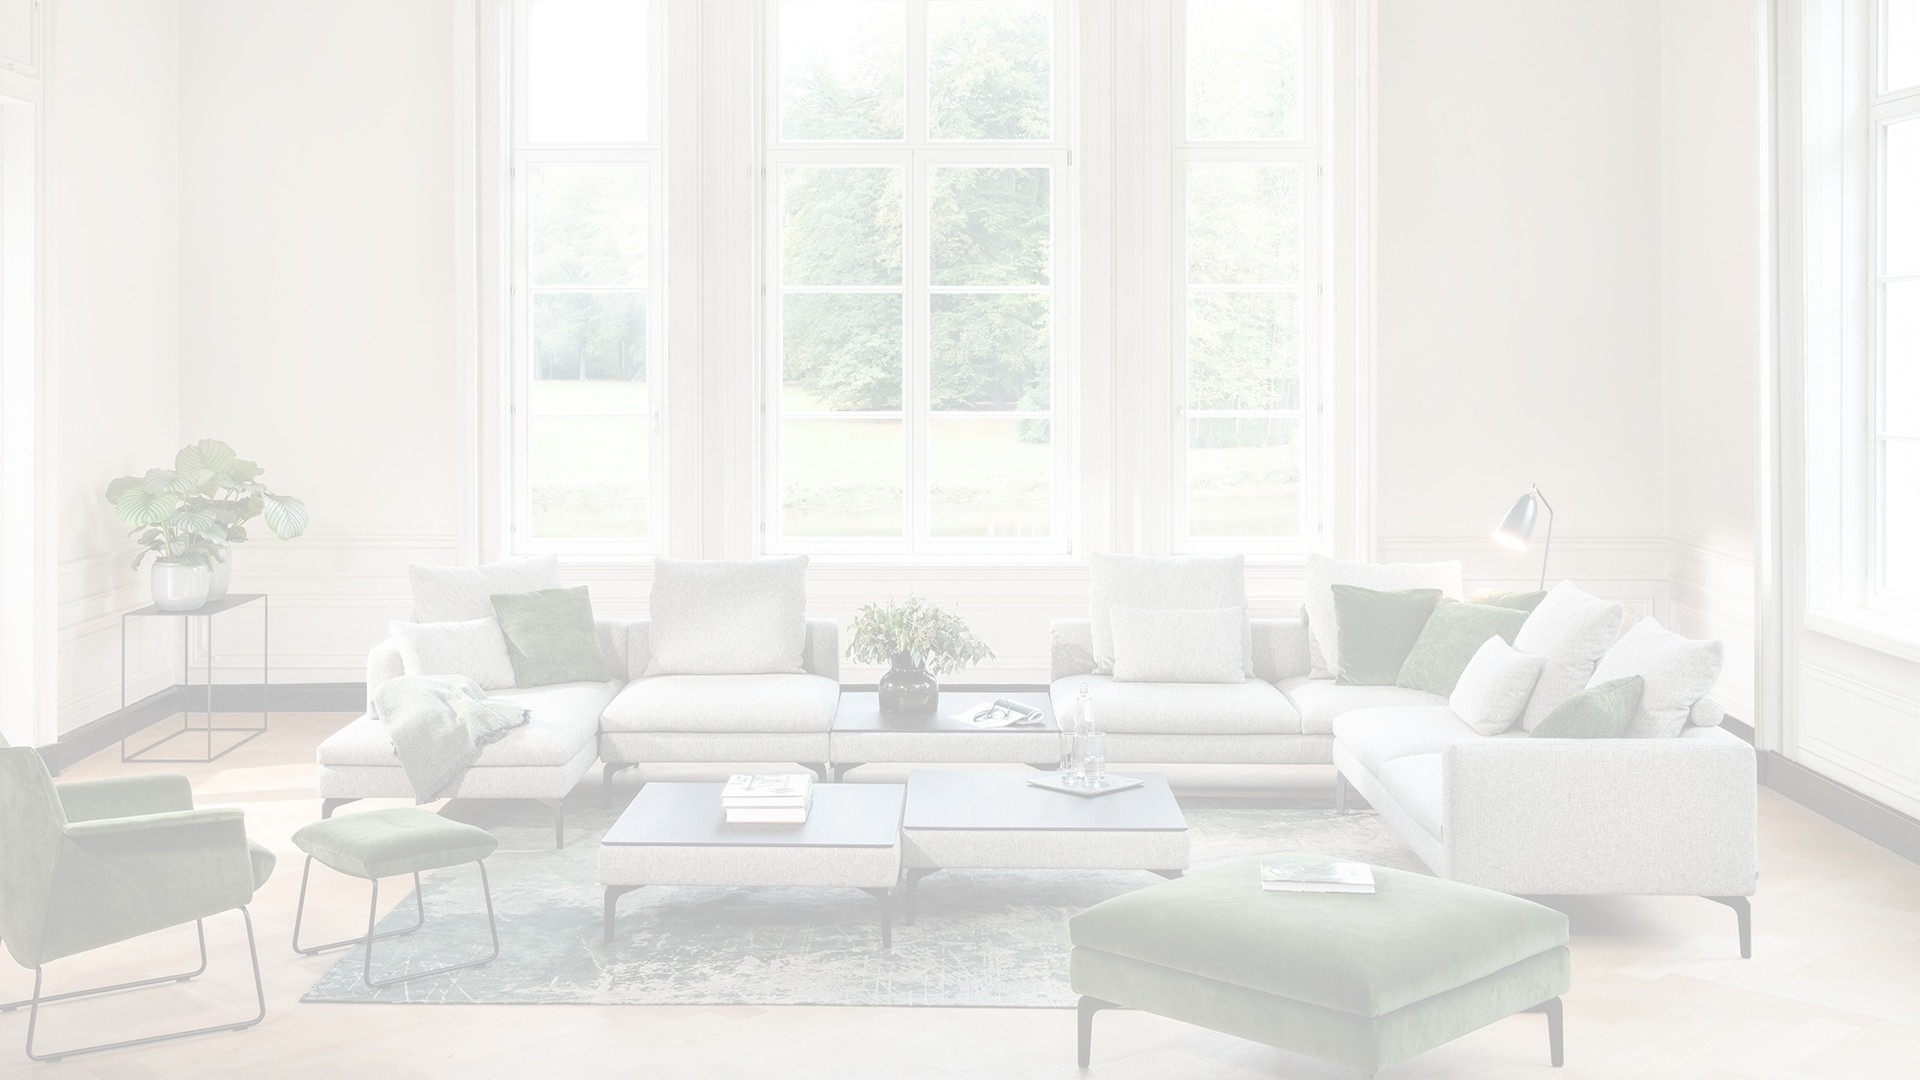
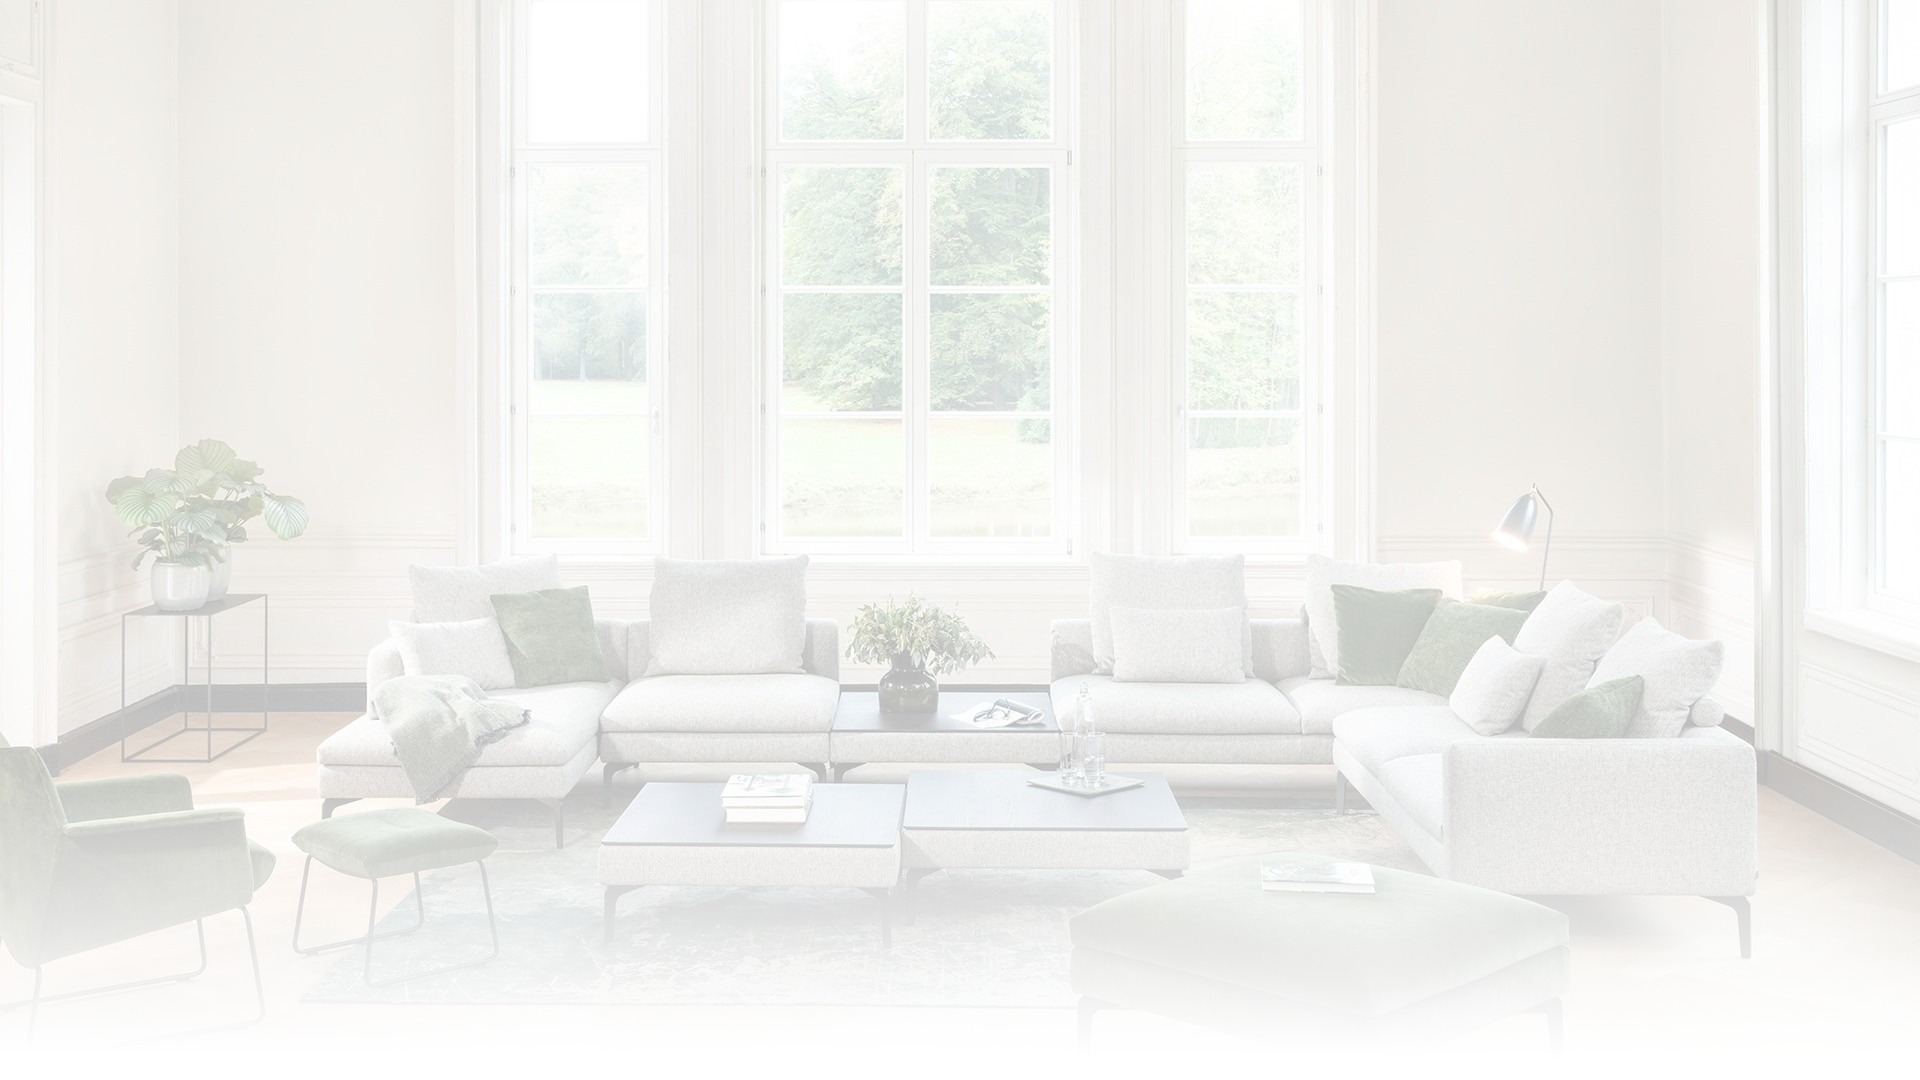
Little changes

Changed region(s): [[0.0, 0.7944, 0.875, 1.0], [0.875, 0.825, 0.9375, 0.8861]]

diff --git a/index.html b/index.html
@@ -23,7 +23,7 @@
             <p>Mit uns ziehen Sie stressfrei um, denn wir organisieren Ihren Umzug von dem Transport der Möbel, der Entsorgung alter Möbel und natürlich auch der Durchführung des Umzuges bis zum Aufbau ihrer Möbel im neuen geliebten Heim. Sie werden noch nie so angenehm Ihren Lebensmittelpunkt verschoben haben. Wir sorgen immer für 100 prozentige Stressfreiheit und Kundenzufriedenheit. Damit Sie sich im neuen Heim wohlfühlen. <i>Versprochen.</i></p>
             <p style="width: 50%">Haben Sie sich jetzt schon entschieden? Rufen Sie uns an unter <i>0176-55213138</i> oder nutzen Sie unser <a href="#kontakt" style="text-decoration: underline">Kontaktformular</a> auf dieser Webseite. Wir machen Ihnen innerhalb kürzester Zeit ein unverbindliches Angebot.</p>
             <ul>
-                <li>Zu unserem Service gehört unter anderem:</li>
+                <li style="line-height: 36px">Zu unserem Service gehört unter anderem:</li>
                 <ul>
                     <li>Besichtigung der Wohnung.</li>
                     <li>Beratung vor Ort.</li>
@@ -41,65 +41,37 @@
                 <figure>
                     <img src="images/bild1.jpg" alt="Die Ladefläche unseres Lastkraftwagens">
                     <figcaption>
-                        <ul>
-                            <li>Nah- und Fernumzüge</li>
-                            <li>Private und geschäftliche Umzüge</li>
-                            <li>für die Familie, Einzelhaushalte, Senioren oder Firmen</li>
-                        </ul>
+                        <p>Wir bieten ihnen Umzüge von Bremen und umzu nach ganz Deutschland. Für Familien, Einzelhaushalte, Senioren und auch Firmen.</p>
                     </figcaption>
                 </figure>
                 <figure>
                     <img src="images/bild2.jpg" alt="Ein Container mit Abfall.">
                     <figcaption>
-                        <ul>
-                            <li>Entrümpelungen</li>
-                            <li>Entsorgungen</li>
-                        </ul>
-                    </figcaption>
-                </figure>
-                <figure>
-                    <img src="images/bild3.jpg" alt="Umzugskartons">
-                    <figcaption>
-                        <ul>
-                            <li>Kartonankauf/Kartonverkauf</li>
-                            <li>Verpackungsmaterialverkauf</li>
-                        </ul>
+                        <p>Lassen Sie Ihre Möbel von uns entsorgen, Ihr Heim entrümpeln und sorgen Sie für Platz. Wir übernehmen die Entsorgung.</p>
                     </figcaption>
                 </figure>
                 <figure>
                     <img src="images/bild4.jpg" alt="Ein geladener Transporter">
                     <figcaption>
-                        <ul>
-                            <li>Einpackservice</li>
-                            <li>Auspackservice</li>
-                        </ul>
+                        <p>Ihre Möbel sind Ihnen genau so wichtig wie uns. Daher ist es uns wichtig, dass Sie Ihre Möbel frustfrei in Ihr neues Heim bekommen.</p>
                     </figcaption>
                 </figure>
                 <figure>
                     <img src="images/bild5.jpg" alt="Ein Klavier">
                     <figcaption>
-                        <ul>
-                            <li>Schwertransporte</li>
-                            <li>Klaviertransporte</li>
-                        </ul>
+                        <p>Machen Sie nicht Ihren Rücken kaputt, wir sorgen auch für den Transport von sehr schweren Möbeln, wie Küchengeräten oder Klavieren.</p>
                     </figcaption>
                 </figure>
                 <figure>
                     <img src="images/bild6.jpg" alt="Ein beladener Transporter.">
                     <figcaption>
-                        <ul>
-                            <li>Kleintransporte</li>
-                            <li>Beantragung Halteverbotszonen</li>
-                        </ul>
+                        <p>"Wie bekomme ich den Umzugswagen zu mir ?" Überlassen Sie die Frage uns, wir sorgen für Halteverbotszonen, so dass der Umzug ohne komplikationen verlaufen kann.</p>
                     </figcaption>
                 </figure>
                 <figure>
                     <img src="images/bild7.jpg" alt="Ein möbellierter Raum">
                     <figcaption>
-                        <ul>
-                            <li>fachmännische Möbelmontage</li>
-                            <li>stressfreie Logistik</li>
-                        </ul>
+                        <p>Natürlich lassen wir Sie nicht im Stich nach dem Transport. Alle Ihre Möbel werden nach Ihrem Wunsch fachmännisch aufgebaut und sind sofort einsatzbereit!</p>
                     </figcaption>
                 </figure>
             </div>

diff --git a/style.css b/style.css
@@ -7,7 +7,7 @@ ARROW UP:
 
 html{
     font-family: Arial, Helvetica, sans-serif;
-    background-image: url("images/background.png");
+    background-image: url("images/background.jpg");
 }
 a{
     color: black;
@@ -19,9 +19,9 @@ a:hover{
 
 .center{
     display: block;
-    padding: 1% 5% 3% 5%;
     margin-left: auto;
     margin-right: auto;
+    padding: 1% 5% 3% 5%;
     min-width: 60%;
     max-width: 900px;
     background-color: white;
@@ -89,8 +89,8 @@ main ul{
 }
 #grid-figure{
     display: grid;
-    grid-template-columns: repeat(auto-fit, 500px);
-    grid-template-rows: repeat(auto-fit, 500px);
+    grid-template-columns: repeat(auto-fit, minmax(25%, 50%));
+    justify-items: center;
 }
 figure{
     padding: 25px;
@@ -106,7 +106,14 @@ figure img{
     border-radius: 2%;
     border-style: solid;
     border-width: 1px;
-    border-color: grey;
+    border-color: black;
+    display: block;
+    margin-left: auto;
+    margin-right: auto;
+}
+figcaption{
+    padding-top: 10px;
+    text-align: justify;
 }
 
 
